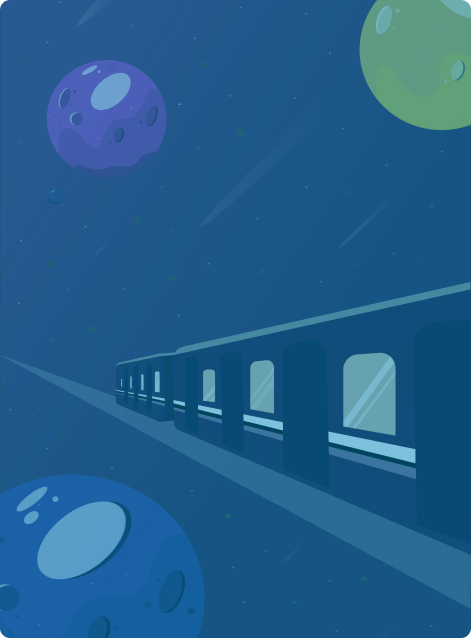
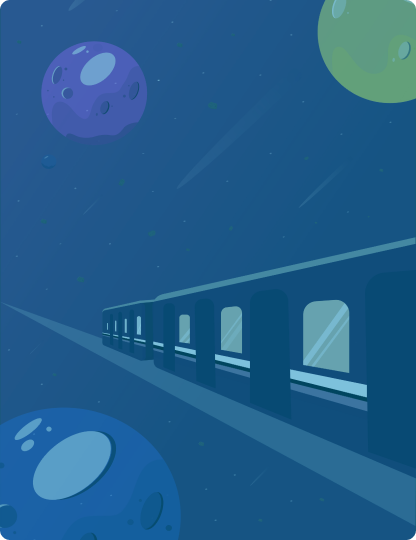
feat: design of cards

diff --git a/pages/cv/style.scss b/pages/cv/style.scss
@@ -139,86 +139,67 @@ body{
         }
         .card-6{
             position: relative;
-            img{
-                width: 30.063rem;
-                height: 16.5rem;
-            }
+            grid-row: 3/5;
         }
         .card-7{
             position: relative;
-            img{
-                width: 23.125rem;
-                height: 16.438rem;
-            }
         }
         .card-8{
             position: relative;
-            grid-row: 3/6;
+            grid-row: 3/5;
             grid-column: 3/3;
-            img{
-                width: 27rem;
-                height: 52rem;
-            }
         }
         .card-9{
             position: relative;
-            img{
-                width: 30.063rem;
-                height: 33rem;
-                margin-top: 14px
-            }
         }
         .card-10{
             position: relative;
-            grid-row: 4/6;
-            grid-column: 2/2;
-            justify-self: center;
-            max-height: 33.7rem;
-            img{
-                width: 23rem;
-                height: 33.7rem;
-            }
+            // width: 29.5rem;
+            // height: 33.75rem;
+            grid-row: 5/7;
         }
         .card-11{
             position: relative;
-            grid-row: 6/6;
-            grid-column: 1/3;
-            img{
-                width: 54rem;
-                height: 35rem;
-            }
+            grid-row: 5/7;
+            grid-column: 2/4;
         }
         .card-12{
             position: relative;
-            grid-row: 6/6;
-            
-            img{
-                width: 27rem;
-                height: 35rem;
-            }
+            // width: 53.125rem;
+            // height: 32.25rem;
+            grid-row: 7/9;
+            grid-column: 1/3;
         }
         .card-13{
             position: relative;
-            grid-row: 8/8;
-            img{
-                width: 30.25rem;
-                height: 19.5rem;
-            }
+            grid-row: 7/9;
         }
         .card-14{
             position: relative;
-            grid-row: 8/8;
-            img{
-                width: 23rem;
-                height: 19.5rem;
-            }
+            grid-row: 9/11;
+            justify-self: end;
         }
         .card-15{
             position: relative;
-            grid-row: 8/8;
+            grid-row: 9/11;
+            grid-column: 2/4;
+            justify-self: end;
+        }
+        .card-16{
+            position: relative;
+            grid-row: 11/13;
+            grid-column: 1/3;
+        }
+        .card-17{
+            position: relative;
+            grid-row: 11/12;
+        }
+        .card-18{
+            position: relative;
         }
     }
-    div{
+
+div{
         text-align: center;
         .btn{
             display: inline-block;

diff --git a/pages/cv/style.css b/pages/cv/style.css
@@ -137,82 +137,59 @@ body {
 }
 .cards .cards-container .card-6 {
   position: relative;
-}
-.cards .cards-container .card-6 img {
-  width: 30.063rem;
-  height: 16.5rem;
+  grid-row: 3/5;
 }
 .cards .cards-container .card-7 {
   position: relative;
 }
-.cards .cards-container .card-7 img {
-  width: 23.125rem;
-  height: 16.438rem;
-}
 .cards .cards-container .card-8 {
   position: relative;
-  grid-row: 3/6;
+  grid-row: 3/5;
   grid-column: 3/3;
-}
-.cards .cards-container .card-8 img {
-  width: 27rem;
-  height: 52rem;
 }
 .cards .cards-container .card-9 {
   position: relative;
 }
-.cards .cards-container .card-9 img {
-  width: 30.063rem;
-  height: 33rem;
-  margin-top: 14px;
-}
 .cards .cards-container .card-10 {
   position: relative;
-  grid-row: 4/6;
-  grid-column: 2/2;
-  justify-self: center;
-  max-height: 33.7rem;
-}
-.cards .cards-container .card-10 img {
-  width: 23rem;
-  height: 33.7rem;
+  grid-row: 5/7;
 }
 .cards .cards-container .card-11 {
   position: relative;
-  grid-row: 6/6;
-  grid-column: 1/3;
-}
-.cards .cards-container .card-11 img {
-  width: 54rem;
-  height: 35rem;
+  grid-row: 5/7;
+  grid-column: 2/4;
 }
 .cards .cards-container .card-12 {
   position: relative;
-  grid-row: 6/6;
-}
-.cards .cards-container .card-12 img {
-  width: 27rem;
-  height: 35rem;
+  grid-row: 7/9;
+  grid-column: 1/3;
 }
 .cards .cards-container .card-13 {
   position: relative;
-  grid-row: 8/8;
-}
-.cards .cards-container .card-13 img {
-  width: 30.25rem;
-  height: 19.5rem;
+  grid-row: 7/9;
 }
 .cards .cards-container .card-14 {
   position: relative;
-  grid-row: 8/8;
-}
-.cards .cards-container .card-14 img {
-  width: 23rem;
-  height: 19.5rem;
+  grid-row: 9/11;
+  justify-self: end;
 }
 .cards .cards-container .card-15 {
   position: relative;
-  grid-row: 8/8;
+  grid-row: 9/11;
+  grid-column: 2/4;
+  justify-self: end;
+}
+.cards .cards-container .card-16 {
+  position: relative;
+  grid-row: 11/13;
+  grid-column: 1/3;
+}
+.cards .cards-container .card-17 {
+  position: relative;
+  grid-row: 11/12;
+}
+.cards .cards-container .card-18 {
+  position: relative;
 }
 .cards div {
   text-align: center;

diff --git a/pages/cv/index.html b/pages/cv/index.html
@@ -81,6 +81,15 @@
                 <div class="card-15">
                     <img src="../../images/cv-card-15.png" alt="изображение какрточки "?">
                 </div>
+                <div class="card-16">
+                    <img src="../../images/cv-card-16.png" alt="изображение какрточки "?">
+                </div>
+                <div class="card-17">
+                    <img src="../../images/cv-card-17.png" alt="изображение какрточки "?">
+                </div>
+                <div class="card-18">
+                    <img src="../../images/cv-card-18.png" alt="изображение какрточки "?">
+                </div>
             </div>
             <div>
                 <a class="btn" href="#">Написать мне</a>
